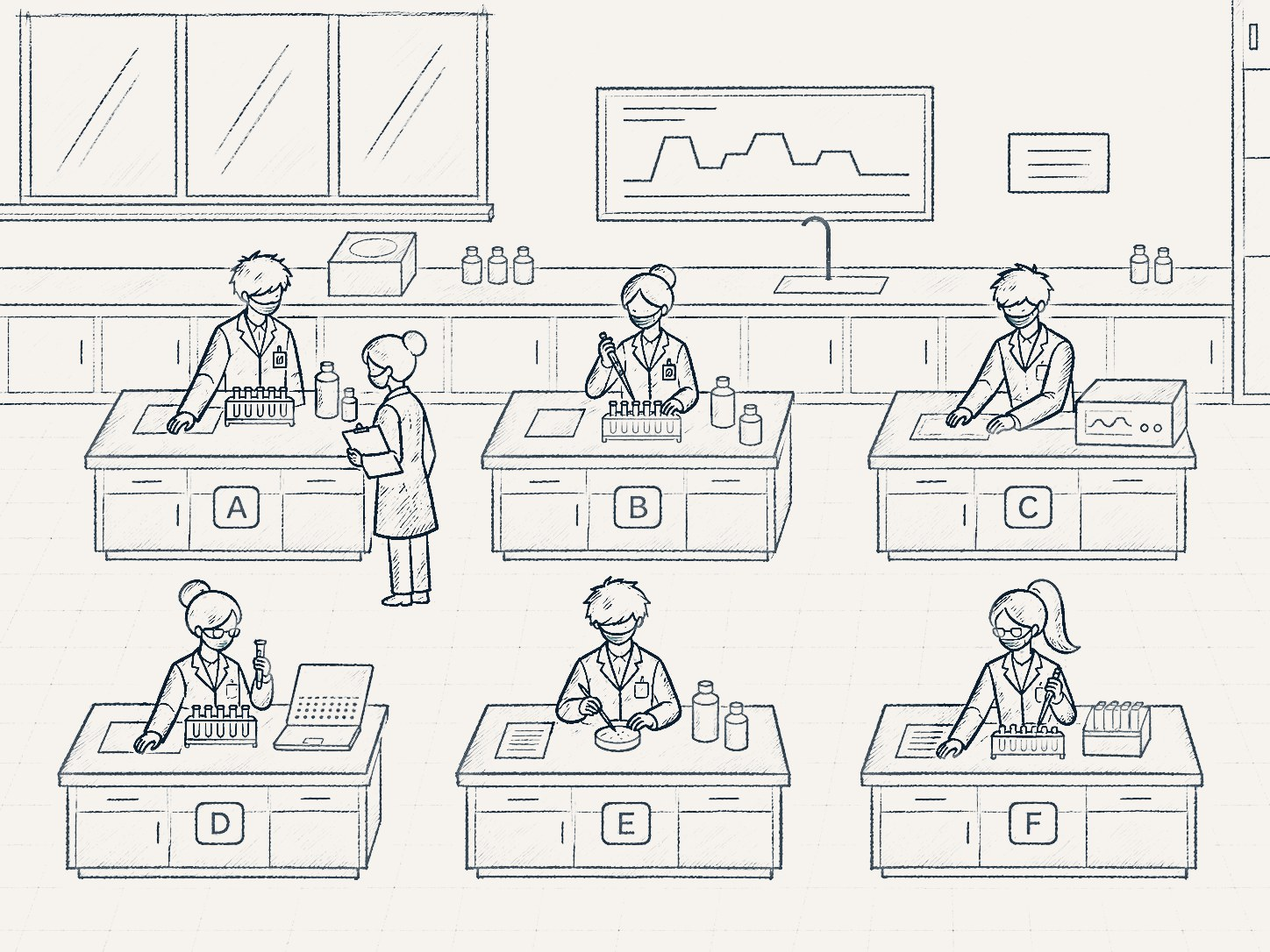
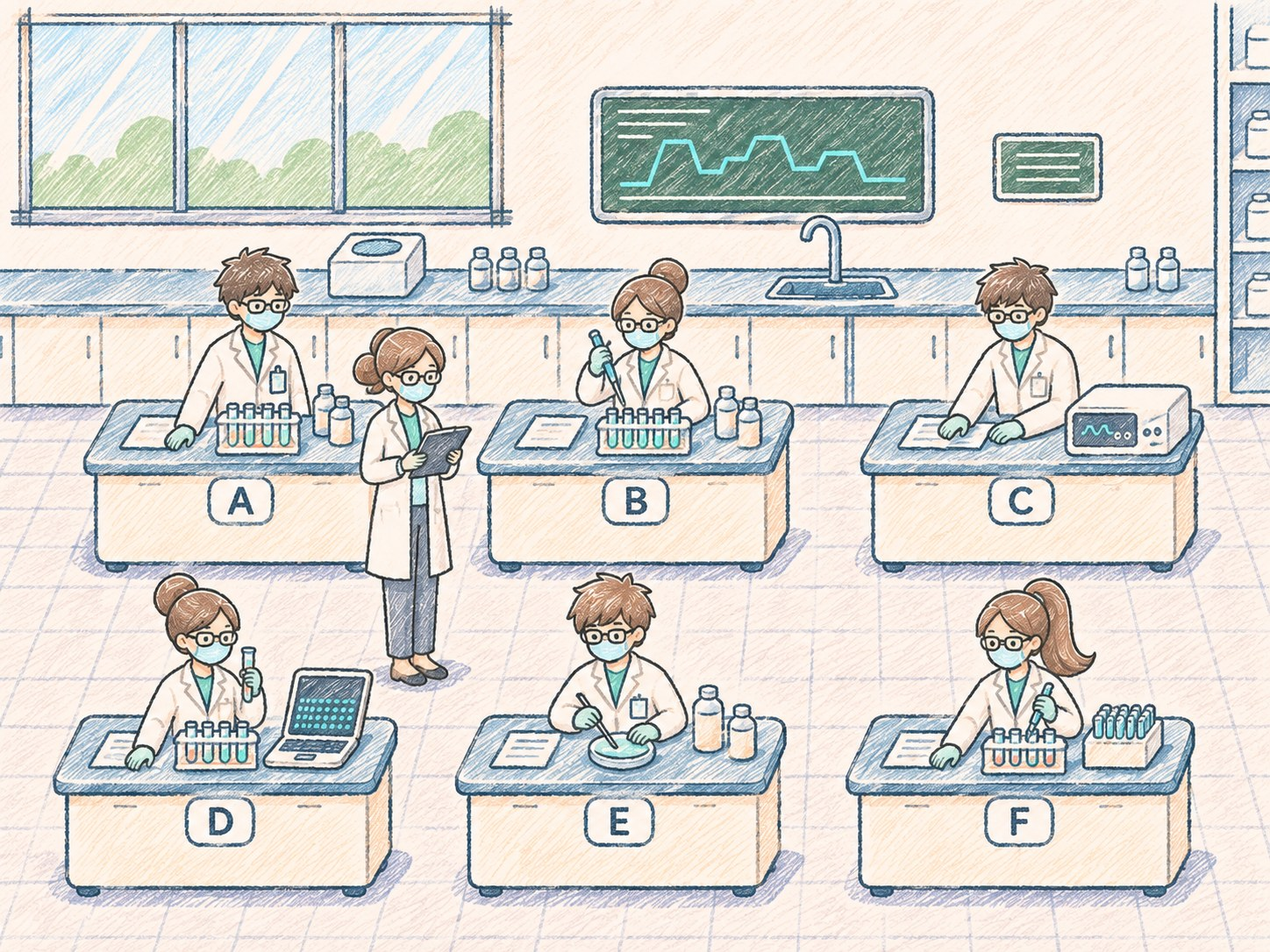
Lab illustrations: new colour pencil series; crisp reading bubble and teacher cards (B ok, C flagged); overlays repositioned
Claude-Session: https://claude.ai/code/session_01QyLKD32KRehfmpAtUqrHvu

diff --git a/index.html b/index.html
@@ -11,10 +11,10 @@
 <script>if(/[?&]review/.test(location.search))document.documentElement.classList.add("review")</script>
 <link rel="stylesheet" href="styles.css?v=20261128-r19">
 <link rel="stylesheet" href="light.css?v=20261128-t14">
-<link rel="stylesheet" href="theme.css?v=20261128-t18">
+<link rel="stylesheet" href="theme.css?v=20261128-t19">
 </head>
 <body>
-<div class="view" data-view="zh-project" data-lang="zh" hidden><div class="site"><a class="skip-link" data-anchor="zh-project--main" href="#zh-project">跳转到内容</a><div class="lt"><header class="site-header"><div class="site-header-inner"><a class="site-logo" href="#zh-project"><svg aria-hidden="true" class="jw-mark" focusable="false" viewbox="-2 -2 92 104"><path d="M4 35V26A22 22 0 0 1 26 4H62A22 22 0 0 1 84 26V74A22 22 0 0 1 62 96H26A22 22 0 0 1 4 74V63" fill="none" stroke="currentColor" stroke-linecap="round" stroke-width="7.5"></path><circle cx="3.4" cy="49" fill="currentColor" r="5"></circle></svg><span class="site-logo-text"><b>见微科技</b><span>LabMate AI</span></span></a><nav aria-label="网站导航" class="site-nav" id="zh-project--site-nav"><a aria-current="page" href="#zh-project">项目介绍</a><a href="#zh-team">团队</a><a href="hackathon/">News</a><a href="product/demo/">Demo</a></nav><div class="site-actions"><button aria-controls="zh-project--site-nav" aria-expanded="false" aria-label="打开菜单" class="site-menu"><span aria-hidden="true" class="site-burger"><i></i><i></i></span></button></div></div></header><main id="zh-project--main"><div class="site-page"><div class="x-hero-track"><section class="x-hero"><div aria-hidden="true" class="x-hero-light"></div><div aria-hidden="true" class="x-pov x-labpov"><div class="x-labpov-in"><div class="lb ls-hero"><img class="lb-img" src="bp/lab2-base.jpg?v=20261128-light3" width="1446" height="910" alt="实验室线稿插画：六张实验台，老师站在 A 台旁" decoding="async"/><img class="lb-img lb-frame" data-f="warn" src="bp/lab2-warn.jpg?v=20261128-light3" width="1446" height="910" alt="" aria-hidden="true" decoding="async"/><img class="lb-img lb-frame" data-f="detail" src="bp/lab2-detail.zh.jpg?v=20261128-light3" width="1446" height="910" alt="" aria-hidden="true" decoding="async"/><img class="lb-img lb-frame" data-f="teacher" src="bp/lab2-teacher.zh.jpg?v=20261128-light3" width="1446" height="910" alt="" aria-hidden="true" decoding="async"/><img class="lb-img lb-frame" data-f="after" src="bp/lab2-after.zh.jpg?v=20261128-light3" width="1446" height="910" alt="" aria-hidden="true" decoding="async"/><span class="lb-dim lb-dim-a" aria-hidden="true"></span><span class="lb-dim lb-dim-b" aria-hidden="true"></span><span class="lb-ring" aria-hidden="true" style="left:39.07330567081605%;top:20.0%;width:24.20470262793914%;height:38.24175824175824%"></span><svg class="lb-glasses" viewBox="0 0 80 26" aria-hidden="true" style="left:49.93084370677732%;top:24.285714285714285%;width:3.7344398340248963%"><path d="M2 6h76"></path><rect x="6" y="5" width="30" height="17" rx="5"></rect><rect x="44" y="5" width="30" height="17" rx="5"></rect><circle cx="70" cy="7.5" r="1.6" class="lb-cam"></circle></svg><span class="lb-chip" data-b="A" aria-hidden="true" style="left:21.23098201936376%;top:50.76923076923077%;--v:0.6666666666666666"><i class="lb-dot"></i>第 6/9 步<i class="lb-bar"></i></span><span class="lb-chip" data-b="B" aria-hidden="true" style="left:53.665283540802214%;top:50.76923076923077%;--v:0.1111111111111111"><i class="lb-dot"></i>第 1/9 步<i class="lb-bar"></i></span><span class="lb-chip" data-b="C" aria-hidden="true" style="left:84.37067773167358%;top:50.76923076923077%;--v:0.1111111111111111"><i class="lb-dot"></i>第 1/9 步<i class="lb-bar"></i></span><span class="lb-chip" data-b="D" aria-hidden="true" style="left:19.502074688796682%;top:90.54945054945055%;--v:0.5555555555555556"><i class="lb-dot"></i>第 5/9 步<i class="lb-bar"></i></span><span class="lb-chip" data-b="E" aria-hidden="true" style="left:51.65975103734441%;top:90.54945054945055%;--v:0.3333333333333333"><i class="lb-dot"></i>第 3/9 步<i class="lb-bar"></i></span><span class="lb-chip" data-b="F" aria-hidden="true" style="left:83.81742738589212%;top:90.54945054945055%;--v:0.7777777777777778"><i class="lb-dot"></i>第 7/9 步<i class="lb-bar"></i></span><span class="lb-tag lb-warn" data-t="warn" style="left:51.31396957123098%;top:14.505494505494507%">B 台出错了，老师没看到</span><span class="lb-tag lb-warn" data-t="detail" style="left:65.6984785615491%;top:61.75824175824176%">移液量设错，试剂也拿错了</span><span class="lb-tag lb-ok" data-t="dev" style="left:51.31396957123098%;top:14.505494505494507%">回到课前，先用平板准备</span><span class="lb-tag lb-ok" data-t="after" style="left:69.84785615491009%;top:5.714285714285714%">B 台已纠正；C 台的新提醒，老师也第一时间看到</span></div><p class="x-labpov-cap">一节 PCR 实验课，一位老师，六张台。</p></div></div><div class="x-hero-stage"><div class="g3d g3d-hero" data-glasses3d="hero"><svg aria-label="LabMate AR 眼镜示意图：镜片中叠加实验步骤提示" class="glasses-art has-view" role="img" viewbox="0 0 1200 430"><defs><lineargradient id="zh-project--hero-frame" x1="0" x2="0" y1="0" y2="1"><stop offset="0" stop-color="#5a6573"></stop><stop offset="0.2" stop-color="#2a3038"></stop><stop offset="1" stop-color="#0e1116"></stop></lineargradient><lineargradient id="zh-project--hero-glass" x1="0" x2="1" y1="0" y2="1"><stop offset="0" stop-color="#ffffff" stop-opacity="0.22"></stop><stop offset="0.35" stop-color="#ffffff" stop-opacity="0.04"></stop><stop offset="1" stop-color="#93b4d8" stop-opacity="0.08"></stop></lineargradient><lineargradient id="zh-project--hero-tint" x1="0" x2="0" y1="0" y2="1"><stop offset="0" stop-color="#0e2a33" stop-opacity="0.28"></stop><stop offset="1" stop-color="#0e2a33" stop-opacity="0.08"></stop></lineargradient><lineargradient id="zh-project--hero-rim" x1="0" x2="0" y1="0" y2="1"><stop offset="0" stop-color="#c9d6e3" stop-opacity="0.75"></stop><stop offset="0.3" stop-color="#93b4d8" stop-opacity="0.25"></stop><stop offset="1" stop-color="#ffffff" stop-opacity="0.05"></stop></lineargradient><filter height="140%" id="zh-project--hero-blur" width="140%" x="-20%" y="-20%"><fegaussianblur stddeviation="7"></fegaussianblur></filter><radialgradient cx="0.5" cy="0.5" id="zh-project--hero-fade" r="0.55"><stop offset="0.55" stop-color="#fff"></stop><stop offset="1" stop-color="#000"></stop></radialgradient><mask height="830" id="zh-project--hero-world" maskunits="userSpaceOnUse" width="1600" x="-200" y="-200"><rect fill="url(#zh-project--hero-fade)" height="830" width="1600" x="-200" y="-200"></rect></mask><lineargradient id="zh-project--hero-temple" x1="0" x2="0" y1="1" y2="0"><stop offset="0" stop-color="#2a323c"></stop><stop offset="1" stop-color="#2a323c" stop-opacity="0"></stop></lineargradient><clippath id="zh-project--hero-lenses"><rect height="274" rx="96" width="476" x="82" y="74"></rect><rect height="274" rx="96" width="476" x="642" y="74"></rect></clippath></defs><g class="ga-world" mask="url(#zh-project--hero-world)"><image height="1800" href="bp/glasses-guidance.jpg?v=20261126010235" opacity="0.42" width="1800" x="-42" y="-827"/></g><path d="M48 114 L80 108 L300 -40 L286 -42 Z" fill="url(#zh-project--hero-temple)"></path><path d="M1152 114 L1120 108 L900 -40 L914 -42 Z" fill="url(#zh-project--hero-temple)"></path><rect fill="url(#zh-project--hero-frame)" height="30" rx="9" width="44" x="40" y="104"></rect><rect fill="url(#zh-project--hero-frame)" height="30" rx="9" width="44" x="1116" y="104"></rect><circle cx="1142" cy="119" fill="#05070a" r="9" stroke="#2c3644" stroke-width="3"></circle><circle cx="1142" cy="119" fill="#123a4c" r="4"></circle><circle class="ga-led" cx="1157" cy="110" fill="#3ddc97" r="2.2"></circle><g fill="url(#zh-project--hero-frame)"><rect height="298" rx="108" width="502" x="70" y="62"></rect><rect height="298" rx="108" width="502" x="628" y="62"></rect><path d="M566 118 C584 92 616 92 634 118 L634 138 C616 116 584 116 566 138 Z"></path></g><g fill="none" stroke-linecap="round"><rect height="298" rx="108" stroke="url(#zh-project--hero-rim)" stroke-width="2" width="502" x="70" y="62"></rect><rect height="298" rx="108" stroke="url(#zh-project--hero-rim)" stroke-width="2" width="502" x="628" y="62"></rect></g><g fill="#2a3340"><ellipse cx="548" cy="214" rx="9" ry="20"></ellipse><ellipse cx="652" cy="214" rx="9" ry="20"></ellipse></g><g clip-path="url(#zh-project--hero-lenses)"><rect fill="#0a1119" height="430" width="1200" x="0" y="0"></rect><image class="ga-view" height="1800" href="bp/glasses-guidance.jpg?v=20261126010235" preserveaspectratio="xMinYMin slice" width="1800" x="-42" y="-827"/><rect fill="url(#zh-project--hero-tint)" height="430" width="1200" x="0" y="0"></rect><rect class="ga-scan" height="3" width="1200" x="0" y="74"></rect><rect fill="url(#zh-project--hero-glass)" height="430" width="1200" x="0" y="0"></rect><path d="M150 74 L250 74 L120 348 L82 348 L82 250 Z" fill="#ffffff" opacity="0.05"></path><path d="M710 74 L790 74 L660 348 L642 348 L642 300 Z" fill="#ffffff" opacity="0.05"></path></g><g fill="none" stroke="#93b4d8" stroke-opacity="0.35" stroke-width="1.5"><rect height="274" rx="96" width="476" x="82" y="74"></rect><rect height="274" rx="96" width="476" x="642" y="74"></rect></g><g class="ga-hud"><g class="ga-chip c1"><rect height="36" rx="9" width="250" x="122" y="100"></rect><text x="138" y="124">1/9 · 加水 20 µL</text></g><g class="ga-list c2"><path d="M138 176 V 302"></path><g class="on"><circle cx="138" cy="168" r="6"></circle><text x="156" y="174">调量</text></g><g class=""><circle cx="138" cy="202" r="6"></circle><text x="156" y="208">装枪头</text></g><g class=""><circle cx="138" cy="236" r="6"></circle><text x="156" y="242">吸液</text></g><g class=""><circle cx="138" cy="270" r="6"></circle><text x="156" y="276">排液</text></g><g class=""><circle cx="138" cy="304" r="6"></circle><text x="156" y="310">退枪头</text></g></g><g class="ga-box c3"><path d="M852 122 h-16 v22 M922 122 h16 v22 M852 268 h-16 v-22 M922 268 h16 v-22"></path></g><g class="ga-chip warn c4"><rect height="56" rx="9" width="140" x="676" y="124"></rect><text class="small" x="690" y="148">读数</text><text x="682" y="172">201.6 µL</text></g><g class="ga-chip ok c5"><rect height="36" rx="9" width="404" x="676" y="292"></rect><text x="692" y="316">朝减小方向调整旋钮 → 20 µL</text></g></g></svg></div><span aria-hidden="true" class="x-hero-floor"></span></div><div class="x-hero-copy"><p class="x-lockup">LabMate AI<!-- --> <span>多终端 AI 实验教学平台</span></p><h1>用 AR 眼镜，<br/>实时指导学生做实验。</h1><p class="x-hero-lead">学生先在平板上预习、练会仪器；做实验时，眼镜认出每一步，操作出错当场提示；老师在教师端看到每张实验台。</p><div class="x-hero-actions hero-actions3"><a class="x-btn" data-anchor="zh-project--journey" href="#zh-project">查看真实教学流程</a><a class="x-link" href="product/demo/">产品界面演示</a><a class="x-link" href="hackathon/">最新动态</a></div><p class="x-foot">眼镜为示意渲染；实验室为示意图。</p></div></section></div><section aria-label="一次完整实验" class="xj" data-journey="true" id="zh-project--journey"><div class="xj-stage" data-k="0" data-scene="0"><div aria-hidden="true" class="xj-bar"><span style="--i:0"><i></i><small>现在</small><b>01</b>实验室</span><span style="--i:1"><i></i><small>课前</small><b>02</b>灵感</span><span style="--i:2"><i></i><small>课前</small><b>03</b>仪器</span><span style="--i:3"><i></i><small>课上</small><b>04</b>AR 实验</span><span style="--i:4"><i></i><small>课上 · 课后</small><b>05</b>教师端</span></div><div class="xj-copy"><article class="xj-cap" data-cap="0"><p class="x-chap"><b>01</b><em class="xj-when">现在</em><span>没有 LabMate 的课堂</span></p><h2>一间实验室，一位老师，六张台。</h2><p class="xj-p">先看一节普通的 PCR 实验课。六张台同时在做，老师只有一位，只能站在一张台旁边。B 台的同学把移液量设错、还拿错了试剂，要等结果出来才发现。</p><ol class="xj-steps"><li data-num="1" data-step="0">六张台，进度各不相同</li><li data-num="2" data-step="1">老师在 A 台，顾不上其他台</li><li data-num="3" data-step="2">B 台出错了，没人发现</li><li data-num="4" data-step="3">错在哪：移液量设错，试剂也拿错了</li><li data-num="5" data-step="4">接下来，跟着 B 台的这位同学，看用上 LabMate 后有什么不同</li></ol></article><article class="xj-cap" data-cap="1"><p class="x-chap"><b>02</b><em class="xj-when">课前</em><span>灵感 · Inspiration</span></p><h2>从一个问题开始。</h2><p class="xj-p">这一次，从课前开始。B 台的同学先在平板上选一个感兴趣的小场景，在 Dr. Pipette 引导下自己搭出 PCR 方案，弄清每一步为什么这样做。</p><ol class="xj-steps"><li data-num="1" data-step="0">选一个小场景</li><li data-num="2" data-step="1">说清你的问题</li><li data-num="3" data-step="2">问 Dr. Pipette</li><li data-num="4" data-step="3">找到要检测的片段</li><li data-num="5" data-step="4">设计引物与分组</li><li data-num="6" data-step="5">整理 PCR protocol 草案</li></ol></article><article class="xj-cap" data-cap="2"><p class="x-chap"><b>03</b><em class="xj-when">课前</em><span>仪器使用 · Instrument use</span></p><h2>先会用仪器，再做完整实验。</h2><p class="xj-p">还是在课前：一步步练会微量移液器，量程、握法、两档力度都练熟，再进实验室。上次设错的移液量，在这里先练对。</p><ol class="xj-steps"><li data-num="1" data-step="0">选择移液枪</li><li data-num="2" data-step="1">调整量程</li><li data-num="3" data-step="2">正确握持</li><li data-num="4" data-step="3">感受两档力度</li><li data-num="5" data-step="4">安装枪头</li><li data-num="6" data-step="5">吸液准备与吸取</li></ol></article><article class="xj-cap" data-cap="3"><p class="x-chap"><b>04</b><em class="xj-when">课上</em><span>AR 实验 · AR lab work</span></p><h2>戴上眼镜，走到实验台。</h2><p class="xj-p">课上，B 台的同学戴上眼镜。这一次移液量刚设错，眼镜就认出来，在视野里提示他调回 20 µL，不用等到结果出来。</p><ol class="xj-steps"><li data-num="1" data-step="0">看见 · 认出移液器和刻度窗</li><li data-num="2" data-step="1">对齐流程 · 第 1/9 步 · 加水 20 µL</li><li data-num="3" data-step="2">判断 · 读数 201.6 µL，超出量程</li><li data-num="4" data-step="3">提示 · 请调小旋钮</li></ol></article><article class="xj-cap" data-cap="4"><p class="x-chap"><b>05</b><em class="xj-when">课上 · 课后</em><span>教师端 · Teacher</span></p><h2>教师看见每一张台。</h2><p class="xj-p">回到开头那间实验室：老师在平板上看到每一张台。B 台已经自己纠正；C 台出现新情况，马上标红。老师先去需要帮助的那一张，课后还能回放关键事件。</p><ol class="xj-steps"><li data-num="1" data-step="0">出错的台，在教师端标红</li><li data-num="2" data-step="1">点开这一组，按时间看关键事件</li><li data-num="3" data-step="2">课后回放，复盘过程</li><li data-num="4" data-step="3">回到实验室：每张台都戴上眼镜，老师在平板上看到 C 台需要帮助</li><li data-num="5" data-step="4">B 台已纠正，C 台的新情况也第一时间看到</li></ol></article></div><div aria-hidden="true" class="xj-view"><div class="xj-lab"><div class="lb"><img class="lb-img" src="bp/lab2-base.jpg?v=20261128-light3" width="1446" height="910" alt="实验室线稿插画：六张实验台，老师站在 A 台旁" decoding="async"/><img class="lb-img lb-frame" data-f="warn" src="bp/lab2-warn.jpg?v=20261128-light3" width="1446" height="910" alt="" aria-hidden="true" decoding="async"/><img class="lb-img lb-frame" data-f="detail" src="bp/lab2-detail.zh.jpg?v=20261128-light3" width="1446" height="910" alt="" aria-hidden="true" decoding="async"/><img class="lb-img lb-frame" data-f="teacher" src="bp/lab2-teacher.zh.jpg?v=20261128-light3" width="1446" height="910" alt="" aria-hidden="true" decoding="async"/><img class="lb-img lb-frame" data-f="after" src="bp/lab2-after.zh.jpg?v=20261128-light3" width="1446" height="910" alt="" aria-hidden="true" decoding="async"/><span class="lb-dim lb-dim-a" aria-hidden="true"></span><span class="lb-dim lb-dim-b" aria-hidden="true"></span><span class="lb-ring" aria-hidden="true" style="left:39.07330567081605%;top:20.0%;width:24.20470262793914%;height:38.24175824175824%"></span><svg class="lb-glasses" viewBox="0 0 80 26" aria-hidden="true" style="left:49.93084370677732%;top:24.285714285714285%;width:3.7344398340248963%"><path d="M2 6h76"></path><rect x="6" y="5" width="30" height="17" rx="5"></rect><rect x="44" y="5" width="30" height="17" rx="5"></rect><circle cx="70" cy="7.5" r="1.6" class="lb-cam"></circle></svg><span class="lb-chip" data-b="A" aria-hidden="true" style="left:21.23098201936376%;top:50.76923076923077%;--v:0.6666666666666666"><i class="lb-dot"></i>第 6/9 步<i class="lb-bar"></i></span><span class="lb-chip" data-b="B" aria-hidden="true" style="left:53.665283540802214%;top:50.76923076923077%;--v:0.1111111111111111"><i class="lb-dot"></i>第 1/9 步<i class="lb-bar"></i></span><span class="lb-chip" data-b="C" aria-hidden="true" style="left:84.37067773167358%;top:50.76923076923077%;--v:0.1111111111111111"><i class="lb-dot"></i>第 1/9 步<i class="lb-bar"></i></span><span class="lb-chip" data-b="D" aria-hidden="true" style="left:19.502074688796682%;top:90.54945054945055%;--v:0.5555555555555556"><i class="lb-dot"></i>第 5/9 步<i class="lb-bar"></i></span><span class="lb-chip" data-b="E" aria-hidden="true" style="left:51.65975103734441%;top:90.54945054945055%;--v:0.3333333333333333"><i class="lb-dot"></i>第 3/9 步<i class="lb-bar"></i></span><span class="lb-chip" data-b="F" aria-hidden="true" style="left:83.81742738589212%;top:90.54945054945055%;--v:0.7777777777777778"><i class="lb-dot"></i>第 7/9 步<i class="lb-bar"></i></span><span class="lb-tag lb-warn" data-t="warn" style="left:51.31396957123098%;top:14.505494505494507%">B 台出错了，老师没看到</span><span class="lb-tag lb-warn" data-t="detail" style="left:65.6984785615491%;top:61.75824175824176%">移液量设错，试剂也拿错了</span><span class="lb-tag lb-ok" data-t="dev" style="left:51.31396957123098%;top:14.505494505494507%">回到课前，先用平板准备</span><span class="lb-tag lb-ok" data-t="after" style="left:69.84785615491009%;top:5.714285714285714%">B 台已纠正；C 台的新提醒，老师也第一时间看到</span></div></div><div class="xj-tablet"><div class="xj-screen"><img alt="" class="xj-shot" data-shot="0" decoding="async" height="1161" loading="eager" src="bp/app-scene.jpg?v=20261126010235" style="color:transparent" width="1600"/><img alt="" class="xj-shot" data-shot="1" decoding="async" height="1161" loading="lazy" src="bp/app-question.jpg?v=20261126010235" style="color:transparent" width="1600"/><img alt="" class="xj-shot" data-shot="2" decoding="async" height="1161" loading="lazy" src="bp/app-pipette.jpg?v=20261126010235" style="color:transparent" width="1600"/><img alt="" class="xj-shot" data-shot="3" decoding="async" height="1161" loading="lazy" src="bp/app-segment.jpg?v=20261126010235" style="color:transparent" width="1600"/><img alt="" class="xj-shot" data-shot="4" decoding="async" height="1161" loading="lazy" src="bp/app-design.jpg?v=20261126010235" style="color:transparent" width="1600"/><img alt="" class="xj-shot" data-shot="5" decoding="async" height="1161" loading="lazy" src="bp/app-protocol.jpg?v=20261126010235" style="color:transparent" width="1600"/><img alt="" class="xj-inst" decoding="async" height="1741" loading="eager" src="bp/instrument-hd.jpg?v=20261127-fix" style="color:transparent" width="2400"/><span class="xj-hl"></span></div></div><div class="xj-zoom"><img alt="" class="xj-z" data-z="1-0" decoding="async" height="896" loading="lazy" src="bp/z-scene.jpg?v=20261126010235" style="color:transparent" width="1600"/><img alt="" class="xj-z" data-z="1-1" decoding="async" height="723" loading="lazy" src="bp/z-question.jpg?v=20261126010235" style="color:transparent" width="1600"/><img alt="" class="xj-z" data-z="1-2" decoding="async" height="647" loading="lazy" src="bp/z-pipette.jpg?v=20261126010235" style="color:transparent" width="1600"/><img alt="" class="xj-z" data-z="1-3" decoding="async" height="516" loading="lazy" src="bp/z-segment.jpg?v=20261126010235" style="color:transparent" width="1600"/><img alt="" class="xj-z" data-z="1-4" decoding="async" height="430" loading="lazy" src="bp/z-design.jpg?v=20261126010235" style="color:transparent" width="1600"/><img alt="" class="xj-z" data-z="1-5" decoding="async" height="416" loading="lazy" src="bp/z-protocol.jpg?v=20261126010235" style="color:transparent" width="1600"/><img alt="" class="xj-z" data-z="2-0" decoding="async" height="283" loading="lazy" src="bp/z-inst0.jpg?v=20261126010235" style="color:transparent" width="1400"/><img alt="" class="xj-z" data-z="2-1" decoding="async" height="283" loading="lazy" src="bp/z-inst1.jpg?v=20261126010235" style="color:transparent" width="1400"/><img alt="" class="xj-z" data-z="2-2" decoding="async" height="283" loading="lazy" src="bp/z-inst2.jpg?v=20261126010235" style="color:transparent" width="1400"/><img alt="" class="xj-z" data-z="2-3" decoding="async" height="283" loading="lazy" src="bp/z-inst3.jpg?v=20261126010235" style="color:transparent" width="1400"/><img alt="" class="xj-z" data-z="2-4" decoding="async" height="283" loading="lazy" src="bp/z-inst4.jpg?v=20261126010235" style="color:transparent" width="1400"/><img alt="" class="xj-z" data-z="2-5" decoding="async" height="566" loading="lazy" src="bp/z-inst5.jpg?v=20261126010235" style="color:transparent" width="1400"/></div><div class="xj-glasses"><div class="g3d g3d-mini" data-glasses3d="mini"></div></div><div class="xj-bench"><img alt="" decoding="async" height="675" loading="eager" src="bp/bench-pov.jpg?v=20261128wb" style="color:transparent" width="1200"/><span class="xj-ret"></span><div class="xj-hud xj-hud-task"><b>第 1/9 步</b>加水 · 20 µL</div><div class="xj-hud xj-hud-read"><span>当前读数</span><strong>201.6 µL</strong><em>超出标称量程</em></div><div class="xj-hud xj-hud-say"><i></i>请朝减小方向调整旋钮，目标 20 微升。</div></div><div class="xj-monitor"><div class="xj-mscreen"><img alt="" decoding="async" height="944" loading="eager" src="bp/teacher-workspace.png?v=20261128-c" style="color:transparent" width="1458"/><span class="xj-fcard"></span><span class="xj-fpulse"></span><span class="xj-tgt" data-tgt="0" style="left:28.7%;top:74.5%">01</span><span class="xj-tgt" data-tgt="1" style="left:57.7%;top:69.5%">02</span><span class="xj-tgt" data-tgt="2" style="left:63.3%;top:20.3%">03</span></div></div></div></div><p class="x-foot xj-foot">实验室为示意图；画面来自学生端、仪器训练与教师端原型及演示录屏；眼镜为示意渲染，界面为中文版。</p></section><section class="x-band x-ev ev2" id="zh-project--evidence"><div class="x-wrap"><header class="x-head"><p class="x-kicker">识别效果</p><h2>看懂实验过程，而不只是认出器材。</h2><p>提示要有用，眼镜得知道学生正在做哪一步、做得对不对。</p></header>
+<div class="view" data-view="zh-project" data-lang="zh" hidden><div class="site"><a class="skip-link" data-anchor="zh-project--main" href="#zh-project">跳转到内容</a><div class="lt"><header class="site-header"><div class="site-header-inner"><a class="site-logo" href="#zh-project"><svg aria-hidden="true" class="jw-mark" focusable="false" viewbox="-2 -2 92 104"><path d="M4 35V26A22 22 0 0 1 26 4H62A22 22 0 0 1 84 26V74A22 22 0 0 1 62 96H26A22 22 0 0 1 4 74V63" fill="none" stroke="currentColor" stroke-linecap="round" stroke-width="7.5"></path><circle cx="3.4" cy="49" fill="currentColor" r="5"></circle></svg><span class="site-logo-text"><b>见微科技</b><span>LabMate AI</span></span></a><nav aria-label="网站导航" class="site-nav" id="zh-project--site-nav"><a aria-current="page" href="#zh-project">项目介绍</a><a href="#zh-team">团队</a><a href="hackathon/">News</a><a href="product/demo/">Demo</a></nav><div class="site-actions"><button aria-controls="zh-project--site-nav" aria-expanded="false" aria-label="打开菜单" class="site-menu"><span aria-hidden="true" class="site-burger"><i></i><i></i></span></button></div></div></header><main id="zh-project--main"><div class="site-page"><div class="x-hero-track"><section class="x-hero"><div aria-hidden="true" class="x-hero-light"></div><div aria-hidden="true" class="x-pov x-labpov"><div class="x-labpov-in"><div class="lb ls-hero"><img class="lb-img" src="bp/lab2-base.jpg?v=20261128-color" width="1446" height="910" alt="实验室线稿插画：六张实验台，老师站在 A 台旁" decoding="async"/><img class="lb-img lb-frame" data-f="warn" src="bp/lab2-warn.jpg?v=20261128-color" width="1446" height="910" alt="" aria-hidden="true" decoding="async"/><img class="lb-img lb-frame" data-f="detail" src="bp/lab2-detail.zh.jpg?v=20261128-color" width="1446" height="910" alt="" aria-hidden="true" decoding="async"/><img class="lb-img lb-frame" data-f="teacher" src="bp/lab2-teacher.zh.jpg?v=20261128-color" width="1446" height="910" alt="" aria-hidden="true" decoding="async"/><img class="lb-img lb-frame" data-f="after" src="bp/lab2-after.zh.jpg?v=20261128-color" width="1446" height="910" alt="" aria-hidden="true" decoding="async"/><span class="lb-dim lb-dim-a" aria-hidden="true"></span><span class="lb-dim lb-dim-b" aria-hidden="true"></span><span class="lb-ring" aria-hidden="true" style="left:37.5%;top:25%;width:25.5%;height:37%"></span><svg class="lb-glasses" viewBox="0 0 80 26" aria-hidden="true" style="left:49%;top:30.2%;width:3.6%"><path d="M2 6h76"></path><rect x="6" y="5" width="30" height="17" rx="5"></rect><rect x="44" y="5" width="30" height="17" rx="5"></rect><circle cx="70" cy="7.5" r="1.6" class="lb-cam"></circle></svg><span class="lb-chip" data-b="A" aria-hidden="true" style="left:22.6%;top:53.0%;--v:0.6666666666666666"><i class="lb-dot"></i>第 6/9 步<i class="lb-bar"></i></span><span class="lb-chip" data-b="B" aria-hidden="true" style="left:53.6%;top:53.0%;--v:0.1111111111111111"><i class="lb-dot"></i>第 1/9 步<i class="lb-bar"></i></span><span class="lb-chip" data-b="C" aria-hidden="true" style="left:83.3%;top:53.0%;--v:0.1111111111111111"><i class="lb-dot"></i>第 1/9 步<i class="lb-bar"></i></span><span class="lb-chip" data-b="D" aria-hidden="true" style="left:20.8%;top:86.4%;--v:0.5555555555555556"><i class="lb-dot"></i>第 5/9 步<i class="lb-bar"></i></span><span class="lb-chip" data-b="E" aria-hidden="true" style="left:52.0%;top:86.4%;--v:0.3333333333333333"><i class="lb-dot"></i>第 3/9 步<i class="lb-bar"></i></span><span class="lb-chip" data-b="F" aria-hidden="true" style="left:83.3%;top:86.4%;--v:0.7777777777777778"><i class="lb-dot"></i>第 7/9 步<i class="lb-bar"></i></span><span class="lb-tag lb-warn" data-t="warn" style="left:51.31396957123098%;top:14.505494505494507%">B 台出错了，老师没看到</span><span class="lb-tag lb-warn" data-t="detail" style="left:65.6984785615491%;top:61.75824175824176%">移液量设错，试剂也拿错了</span><span class="lb-tag lb-ok" data-t="dev" style="left:51.31396957123098%;top:14.505494505494507%">回到课前，先用平板准备</span><span class="lb-tag lb-ok" data-t="after" style="left:69.84785615491009%;top:5.714285714285714%">B 台已纠正；C 台的新提醒，老师也第一时间看到</span></div><p class="x-labpov-cap">一节 PCR 实验课，一位老师，六张台。</p></div></div><div class="x-hero-stage"><div class="g3d g3d-hero" data-glasses3d="hero"><svg aria-label="LabMate AR 眼镜示意图：镜片中叠加实验步骤提示" class="glasses-art has-view" role="img" viewbox="0 0 1200 430"><defs><lineargradient id="zh-project--hero-frame" x1="0" x2="0" y1="0" y2="1"><stop offset="0" stop-color="#5a6573"></stop><stop offset="0.2" stop-color="#2a3038"></stop><stop offset="1" stop-color="#0e1116"></stop></lineargradient><lineargradient id="zh-project--hero-glass" x1="0" x2="1" y1="0" y2="1"><stop offset="0" stop-color="#ffffff" stop-opacity="0.22"></stop><stop offset="0.35" stop-color="#ffffff" stop-opacity="0.04"></stop><stop offset="1" stop-color="#93b4d8" stop-opacity="0.08"></stop></lineargradient><lineargradient id="zh-project--hero-tint" x1="0" x2="0" y1="0" y2="1"><stop offset="0" stop-color="#0e2a33" stop-opacity="0.28"></stop><stop offset="1" stop-color="#0e2a33" stop-opacity="0.08"></stop></lineargradient><lineargradient id="zh-project--hero-rim" x1="0" x2="0" y1="0" y2="1"><stop offset="0" stop-color="#c9d6e3" stop-opacity="0.75"></stop><stop offset="0.3" stop-color="#93b4d8" stop-opacity="0.25"></stop><stop offset="1" stop-color="#ffffff" stop-opacity="0.05"></stop></lineargradient><filter height="140%" id="zh-project--hero-blur" width="140%" x="-20%" y="-20%"><fegaussianblur stddeviation="7"></fegaussianblur></filter><radialgradient cx="0.5" cy="0.5" id="zh-project--hero-fade" r="0.55"><stop offset="0.55" stop-color="#fff"></stop><stop offset="1" stop-color="#000"></stop></radialgradient><mask height="830" id="zh-project--hero-world" maskunits="userSpaceOnUse" width="1600" x="-200" y="-200"><rect fill="url(#zh-project--hero-fade)" height="830" width="1600" x="-200" y="-200"></rect></mask><lineargradient id="zh-project--hero-temple" x1="0" x2="0" y1="1" y2="0"><stop offset="0" stop-color="#2a323c"></stop><stop offset="1" stop-color="#2a323c" stop-opacity="0"></stop></lineargradient><clippath id="zh-project--hero-lenses"><rect height="274" rx="96" width="476" x="82" y="74"></rect><rect height="274" rx="96" width="476" x="642" y="74"></rect></clippath></defs><g class="ga-world" mask="url(#zh-project--hero-world)"><image height="1800" href="bp/glasses-guidance.jpg?v=20261126010235" opacity="0.42" width="1800" x="-42" y="-827"/></g><path d="M48 114 L80 108 L300 -40 L286 -42 Z" fill="url(#zh-project--hero-temple)"></path><path d="M1152 114 L1120 108 L900 -40 L914 -42 Z" fill="url(#zh-project--hero-temple)"></path><rect fill="url(#zh-project--hero-frame)" height="30" rx="9" width="44" x="40" y="104"></rect><rect fill="url(#zh-project--hero-frame)" height="30" rx="9" width="44" x="1116" y="104"></rect><circle cx="1142" cy="119" fill="#05070a" r="9" stroke="#2c3644" stroke-width="3"></circle><circle cx="1142" cy="119" fill="#123a4c" r="4"></circle><circle class="ga-led" cx="1157" cy="110" fill="#3ddc97" r="2.2"></circle><g fill="url(#zh-project--hero-frame)"><rect height="298" rx="108" width="502" x="70" y="62"></rect><rect height="298" rx="108" width="502" x="628" y="62"></rect><path d="M566 118 C584 92 616 92 634 118 L634 138 C616 116 584 116 566 138 Z"></path></g><g fill="none" stroke-linecap="round"><rect height="298" rx="108" stroke="url(#zh-project--hero-rim)" stroke-width="2" width="502" x="70" y="62"></rect><rect height="298" rx="108" stroke="url(#zh-project--hero-rim)" stroke-width="2" width="502" x="628" y="62"></rect></g><g fill="#2a3340"><ellipse cx="548" cy="214" rx="9" ry="20"></ellipse><ellipse cx="652" cy="214" rx="9" ry="20"></ellipse></g><g clip-path="url(#zh-project--hero-lenses)"><rect fill="#0a1119" height="430" width="1200" x="0" y="0"></rect><image class="ga-view" height="1800" href="bp/glasses-guidance.jpg?v=20261126010235" preserveaspectratio="xMinYMin slice" width="1800" x="-42" y="-827"/><rect fill="url(#zh-project--hero-tint)" height="430" width="1200" x="0" y="0"></rect><rect class="ga-scan" height="3" width="1200" x="0" y="74"></rect><rect fill="url(#zh-project--hero-glass)" height="430" width="1200" x="0" y="0"></rect><path d="M150 74 L250 74 L120 348 L82 348 L82 250 Z" fill="#ffffff" opacity="0.05"></path><path d="M710 74 L790 74 L660 348 L642 348 L642 300 Z" fill="#ffffff" opacity="0.05"></path></g><g fill="none" stroke="#93b4d8" stroke-opacity="0.35" stroke-width="1.5"><rect height="274" rx="96" width="476" x="82" y="74"></rect><rect height="274" rx="96" width="476" x="642" y="74"></rect></g><g class="ga-hud"><g class="ga-chip c1"><rect height="36" rx="9" width="250" x="122" y="100"></rect><text x="138" y="124">1/9 · 加水 20 µL</text></g><g class="ga-list c2"><path d="M138 176 V 302"></path><g class="on"><circle cx="138" cy="168" r="6"></circle><text x="156" y="174">调量</text></g><g class=""><circle cx="138" cy="202" r="6"></circle><text x="156" y="208">装枪头</text></g><g class=""><circle cx="138" cy="236" r="6"></circle><text x="156" y="242">吸液</text></g><g class=""><circle cx="138" cy="270" r="6"></circle><text x="156" y="276">排液</text></g><g class=""><circle cx="138" cy="304" r="6"></circle><text x="156" y="310">退枪头</text></g></g><g class="ga-box c3"><path d="M852 122 h-16 v22 M922 122 h16 v22 M852 268 h-16 v-22 M922 268 h16 v-22"></path></g><g class="ga-chip warn c4"><rect height="56" rx="9" width="140" x="676" y="124"></rect><text class="small" x="690" y="148">读数</text><text x="682" y="172">201.6 µL</text></g><g class="ga-chip ok c5"><rect height="36" rx="9" width="404" x="676" y="292"></rect><text x="692" y="316">朝减小方向调整旋钮 → 20 µL</text></g></g></svg></div><span aria-hidden="true" class="x-hero-floor"></span></div><div class="x-hero-copy"><p class="x-lockup">LabMate AI<!-- --> <span>多终端 AI 实验教学平台</span></p><h1>用 AR 眼镜，<br/>实时指导学生做实验。</h1><p class="x-hero-lead">学生先在平板上预习、练会仪器；做实验时，眼镜认出每一步，操作出错当场提示；老师在教师端看到每张实验台。</p><div class="x-hero-actions hero-actions3"><a class="x-btn" data-anchor="zh-project--journey" href="#zh-project">查看真实教学流程</a><a class="x-link" href="product/demo/">产品界面演示</a><a class="x-link" href="hackathon/">最新动态</a></div><p class="x-foot">眼镜为示意渲染；实验室为示意图。</p></div></section></div><section aria-label="一次完整实验" class="xj" data-journey="true" id="zh-project--journey"><div class="xj-stage" data-k="0" data-scene="0"><div aria-hidden="true" class="xj-bar"><span style="--i:0"><i></i><small>现在</small><b>01</b>实验室</span><span style="--i:1"><i></i><small>课前</small><b>02</b>灵感</span><span style="--i:2"><i></i><small>课前</small><b>03</b>仪器</span><span style="--i:3"><i></i><small>课上</small><b>04</b>AR 实验</span><span style="--i:4"><i></i><small>课上 · 课后</small><b>05</b>教师端</span></div><div class="xj-copy"><article class="xj-cap" data-cap="0"><p class="x-chap"><b>01</b><em class="xj-when">现在</em><span>没有 LabMate 的课堂</span></p><h2>一间实验室，一位老师，六张台。</h2><p class="xj-p">先看一节普通的 PCR 实验课。六张台同时在做，老师只有一位，只能站在一张台旁边。B 台的同学把移液量设错、还拿错了试剂，要等结果出来才发现。</p><ol class="xj-steps"><li data-num="1" data-step="0">六张台，进度各不相同</li><li data-num="2" data-step="1">老师在 A 台，顾不上其他台</li><li data-num="3" data-step="2">B 台出错了，没人发现</li><li data-num="4" data-step="3">错在哪：移液量设错，试剂也拿错了</li><li data-num="5" data-step="4">接下来，跟着 B 台的这位同学，看用上 LabMate 后有什么不同</li></ol></article><article class="xj-cap" data-cap="1"><p class="x-chap"><b>02</b><em class="xj-when">课前</em><span>灵感 · Inspiration</span></p><h2>从一个问题开始。</h2><p class="xj-p">这一次，从课前开始。B 台的同学先在平板上选一个感兴趣的小场景，在 Dr. Pipette 引导下自己搭出 PCR 方案，弄清每一步为什么这样做。</p><ol class="xj-steps"><li data-num="1" data-step="0">选一个小场景</li><li data-num="2" data-step="1">说清你的问题</li><li data-num="3" data-step="2">问 Dr. Pipette</li><li data-num="4" data-step="3">找到要检测的片段</li><li data-num="5" data-step="4">设计引物与分组</li><li data-num="6" data-step="5">整理 PCR protocol 草案</li></ol></article><article class="xj-cap" data-cap="2"><p class="x-chap"><b>03</b><em class="xj-when">课前</em><span>仪器使用 · Instrument use</span></p><h2>先会用仪器，再做完整实验。</h2><p class="xj-p">还是在课前：一步步练会微量移液器，量程、握法、两档力度都练熟，再进实验室。上次设错的移液量，在这里先练对。</p><ol class="xj-steps"><li data-num="1" data-step="0">选择移液枪</li><li data-num="2" data-step="1">调整量程</li><li data-num="3" data-step="2">正确握持</li><li data-num="4" data-step="3">感受两档力度</li><li data-num="5" data-step="4">安装枪头</li><li data-num="6" data-step="5">吸液准备与吸取</li></ol></article><article class="xj-cap" data-cap="3"><p class="x-chap"><b>04</b><em class="xj-when">课上</em><span>AR 实验 · AR lab work</span></p><h2>戴上眼镜，走到实验台。</h2><p class="xj-p">课上，B 台的同学戴上眼镜。这一次移液量刚设错，眼镜就认出来，在视野里提示他调回 20 µL，不用等到结果出来。</p><ol class="xj-steps"><li data-num="1" data-step="0">看见 · 认出移液器和刻度窗</li><li data-num="2" data-step="1">对齐流程 · 第 1/9 步 · 加水 20 µL</li><li data-num="3" data-step="2">判断 · 读数 201.6 µL，超出量程</li><li data-num="4" data-step="3">提示 · 请调小旋钮</li></ol></article><article class="xj-cap" data-cap="4"><p class="x-chap"><b>05</b><em class="xj-when">课上 · 课后</em><span>教师端 · Teacher</span></p><h2>教师看见每一张台。</h2><p class="xj-p">回到开头那间实验室：老师在平板上看到每一张台。B 台已经自己纠正；C 台出现新情况，马上标红。老师先去需要帮助的那一张，课后还能回放关键事件。</p><ol class="xj-steps"><li data-num="1" data-step="0">出错的台，在教师端标红</li><li data-num="2" data-step="1">点开这一组，按时间看关键事件</li><li data-num="3" data-step="2">课后回放，复盘过程</li><li data-num="4" data-step="3">回到实验室：每张台都戴上眼镜，老师在平板上看到 C 台需要帮助</li><li data-num="5" data-step="4">B 台已纠正，C 台的新情况也第一时间看到</li></ol></article></div><div aria-hidden="true" class="xj-view"><div class="xj-lab"><div class="lb"><img class="lb-img" src="bp/lab2-base.jpg?v=20261128-color" width="1446" height="910" alt="实验室线稿插画：六张实验台，老师站在 A 台旁" decoding="async"/><img class="lb-img lb-frame" data-f="warn" src="bp/lab2-warn.jpg?v=20261128-color" width="1446" height="910" alt="" aria-hidden="true" decoding="async"/><img class="lb-img lb-frame" data-f="detail" src="bp/lab2-detail.zh.jpg?v=20261128-color" width="1446" height="910" alt="" aria-hidden="true" decoding="async"/><img class="lb-img lb-frame" data-f="teacher" src="bp/lab2-teacher.zh.jpg?v=20261128-color" width="1446" height="910" alt="" aria-hidden="true" decoding="async"/><img class="lb-img lb-frame" data-f="after" src="bp/lab2-after.zh.jpg?v=20261128-color" width="1446" height="910" alt="" aria-hidden="true" decoding="async"/><span class="lb-dim lb-dim-a" aria-hidden="true"></span><span class="lb-dim lb-dim-b" aria-hidden="true"></span><span class="lb-ring" aria-hidden="true" style="left:37.5%;top:25%;width:25.5%;height:37%"></span><svg class="lb-glasses" viewBox="0 0 80 26" aria-hidden="true" style="left:49%;top:30.2%;width:3.6%"><path d="M2 6h76"></path><rect x="6" y="5" width="30" height="17" rx="5"></rect><rect x="44" y="5" width="30" height="17" rx="5"></rect><circle cx="70" cy="7.5" r="1.6" class="lb-cam"></circle></svg><span class="lb-chip" data-b="A" aria-hidden="true" style="left:22.6%;top:53.0%;--v:0.6666666666666666"><i class="lb-dot"></i>第 6/9 步<i class="lb-bar"></i></span><span class="lb-chip" data-b="B" aria-hidden="true" style="left:53.6%;top:53.0%;--v:0.1111111111111111"><i class="lb-dot"></i>第 1/9 步<i class="lb-bar"></i></span><span class="lb-chip" data-b="C" aria-hidden="true" style="left:83.3%;top:53.0%;--v:0.1111111111111111"><i class="lb-dot"></i>第 1/9 步<i class="lb-bar"></i></span><span class="lb-chip" data-b="D" aria-hidden="true" style="left:20.8%;top:86.4%;--v:0.5555555555555556"><i class="lb-dot"></i>第 5/9 步<i class="lb-bar"></i></span><span class="lb-chip" data-b="E" aria-hidden="true" style="left:52.0%;top:86.4%;--v:0.3333333333333333"><i class="lb-dot"></i>第 3/9 步<i class="lb-bar"></i></span><span class="lb-chip" data-b="F" aria-hidden="true" style="left:83.3%;top:86.4%;--v:0.7777777777777778"><i class="lb-dot"></i>第 7/9 步<i class="lb-bar"></i></span><span class="lb-tag lb-warn" data-t="warn" style="left:51.31396957123098%;top:14.505494505494507%">B 台出错了，老师没看到</span><span class="lb-tag lb-warn" data-t="detail" style="left:65.6984785615491%;top:61.75824175824176%">移液量设错，试剂也拿错了</span><span class="lb-tag lb-ok" data-t="dev" style="left:51.31396957123098%;top:14.505494505494507%">回到课前，先用平板准备</span><span class="lb-tag lb-ok" data-t="after" style="left:69.84785615491009%;top:5.714285714285714%">B 台已纠正；C 台的新提醒，老师也第一时间看到</span></div></div><div class="xj-tablet"><div class="xj-screen"><img alt="" class="xj-shot" data-shot="0" decoding="async" height="1161" loading="eager" src="bp/app-scene.jpg?v=20261126010235" style="color:transparent" width="1600"/><img alt="" class="xj-shot" data-shot="1" decoding="async" height="1161" loading="lazy" src="bp/app-question.jpg?v=20261126010235" style="color:transparent" width="1600"/><img alt="" class="xj-shot" data-shot="2" decoding="async" height="1161" loading="lazy" src="bp/app-pipette.jpg?v=20261126010235" style="color:transparent" width="1600"/><img alt="" class="xj-shot" data-shot="3" decoding="async" height="1161" loading="lazy" src="bp/app-segment.jpg?v=20261126010235" style="color:transparent" width="1600"/><img alt="" class="xj-shot" data-shot="4" decoding="async" height="1161" loading="lazy" src="bp/app-design.jpg?v=20261126010235" style="color:transparent" width="1600"/><img alt="" class="xj-shot" data-shot="5" decoding="async" height="1161" loading="lazy" src="bp/app-protocol.jpg?v=20261126010235" style="color:transparent" width="1600"/><img alt="" class="xj-inst" decoding="async" height="1741" loading="eager" src="bp/instrument-hd.jpg?v=20261127-fix" style="color:transparent" width="2400"/><span class="xj-hl"></span></div></div><div class="xj-zoom"><img alt="" class="xj-z" data-z="1-0" decoding="async" height="896" loading="lazy" src="bp/z-scene.jpg?v=20261126010235" style="color:transparent" width="1600"/><img alt="" class="xj-z" data-z="1-1" decoding="async" height="723" loading="lazy" src="bp/z-question.jpg?v=20261126010235" style="color:transparent" width="1600"/><img alt="" class="xj-z" data-z="1-2" decoding="async" height="647" loading="lazy" src="bp/z-pipette.jpg?v=20261126010235" style="color:transparent" width="1600"/><img alt="" class="xj-z" data-z="1-3" decoding="async" height="516" loading="lazy" src="bp/z-segment.jpg?v=20261126010235" style="color:transparent" width="1600"/><img alt="" class="xj-z" data-z="1-4" decoding="async" height="430" loading="lazy" src="bp/z-design.jpg?v=20261126010235" style="color:transparent" width="1600"/><img alt="" class="xj-z" data-z="1-5" decoding="async" height="416" loading="lazy" src="bp/z-protocol.jpg?v=20261126010235" style="color:transparent" width="1600"/><img alt="" class="xj-z" data-z="2-0" decoding="async" height="283" loading="lazy" src="bp/z-inst0.jpg?v=20261126010235" style="color:transparent" width="1400"/><img alt="" class="xj-z" data-z="2-1" decoding="async" height="283" loading="lazy" src="bp/z-inst1.jpg?v=20261126010235" style="color:transparent" width="1400"/><img alt="" class="xj-z" data-z="2-2" decoding="async" height="283" loading="lazy" src="bp/z-inst2.jpg?v=20261126010235" style="color:transparent" width="1400"/><img alt="" class="xj-z" data-z="2-3" decoding="async" height="283" loading="lazy" src="bp/z-inst3.jpg?v=20261126010235" style="color:transparent" width="1400"/><img alt="" class="xj-z" data-z="2-4" decoding="async" height="283" loading="lazy" src="bp/z-inst4.jpg?v=20261126010235" style="color:transparent" width="1400"/><img alt="" class="xj-z" data-z="2-5" decoding="async" height="566" loading="lazy" src="bp/z-inst5.jpg?v=20261126010235" style="color:transparent" width="1400"/></div><div class="xj-glasses"><div class="g3d g3d-mini" data-glasses3d="mini"></div></div><div class="xj-bench"><img alt="" decoding="async" height="675" loading="eager" src="bp/bench-pov.jpg?v=20261128wb" style="color:transparent" width="1200"/><span class="xj-ret"></span><div class="xj-hud xj-hud-task"><b>第 1/9 步</b>加水 · 20 µL</div><div class="xj-hud xj-hud-read"><span>当前读数</span><strong>201.6 µL</strong><em>超出标称量程</em></div><div class="xj-hud xj-hud-say"><i></i>请朝减小方向调整旋钮，目标 20 微升。</div></div><div class="xj-monitor"><div class="xj-mscreen"><img alt="" decoding="async" height="944" loading="eager" src="bp/teacher-workspace.png?v=20261128-c" style="color:transparent" width="1458"/><span class="xj-fcard"></span><span class="xj-fpulse"></span><span class="xj-tgt" data-tgt="0" style="left:28.7%;top:74.5%">01</span><span class="xj-tgt" data-tgt="1" style="left:57.7%;top:69.5%">02</span><span class="xj-tgt" data-tgt="2" style="left:63.3%;top:20.3%">03</span></div></div></div></div><p class="x-foot xj-foot">实验室为示意图；画面来自学生端、仪器训练与教师端原型及演示录屏；眼镜为示意渲染，界面为中文版。</p></section><section class="x-band x-ev ev2" id="zh-project--evidence"><div class="x-wrap"><header class="x-head"><p class="x-kicker">识别效果</p><h2>看懂实验过程，而不只是认出器材。</h2><p>提示要有用，眼镜得知道学生正在做哪一步、做得对不对。</p></header>
 <div class="ev4" data-inview="true">
 <div class="ev4-stat">
 <p class="ev4-k">关键动作识别准确率</p>

diff --git a/theme.css b/theme.css
@@ -393,3 +393,8 @@ html, body { overflow-x: clip; }
   .ev4-call em::before { width: 16px; }
   .ev4-call.l em { margin-right: 22px; }
 }
+/* colour lab drawings */
+.lt .lb { background: #fbf3ec !important; }
+.lt .lb-dim-a { background: radial-gradient(ellipse 22% 36% at 31% 50%, transparent 55%, rgba(251, 243, 236, 0.75) 100%) !important; }
+.lt .lb-dim-b { background: radial-gradient(ellipse 18% 32% at 51% 44%, transparent 60%, rgba(251, 243, 236, 0.75) 100%) !important; }
+.lb-glasses { display: none !important; }

diff --git a/product/demo/index.html b/product/demo/index.html
@@ -11,7 +11,7 @@
   <link rel="stylesheet" href="../../site-shell.css?v=20261128-r17">
   <link rel="stylesheet" href="demo.css?v=20261128-t14">
   <link rel="stylesheet" href="../../light.css?v=20261128-t14">
-  <link rel="stylesheet" href="../../theme.css?v=20261128-t18">
+  <link rel="stylesheet" href="../../theme.css?v=20261128-t19">
 </head>
 <body class="site subpage">
   <a class="skip-link" href="#main">跳转到内容</a>

diff --git a/hackathon/index.html b/hackathon/index.html
@@ -11,7 +11,7 @@
   <link rel="stylesheet" href="../site-shell.css?v=20261128-r17">
   <link rel="stylesheet" href="hackathon.css?v=20261128-t14">
   <link rel="stylesheet" href="../light.css?v=20261128-t14">
-  <link rel="stylesheet" href="../theme.css?v=20261128-t18">
+  <link rel="stylesheet" href="../theme.css?v=20261128-t19">
 </head>
 <body class="site subpage">
   <a class="skip-link" href="#main">跳转到内容</a>
